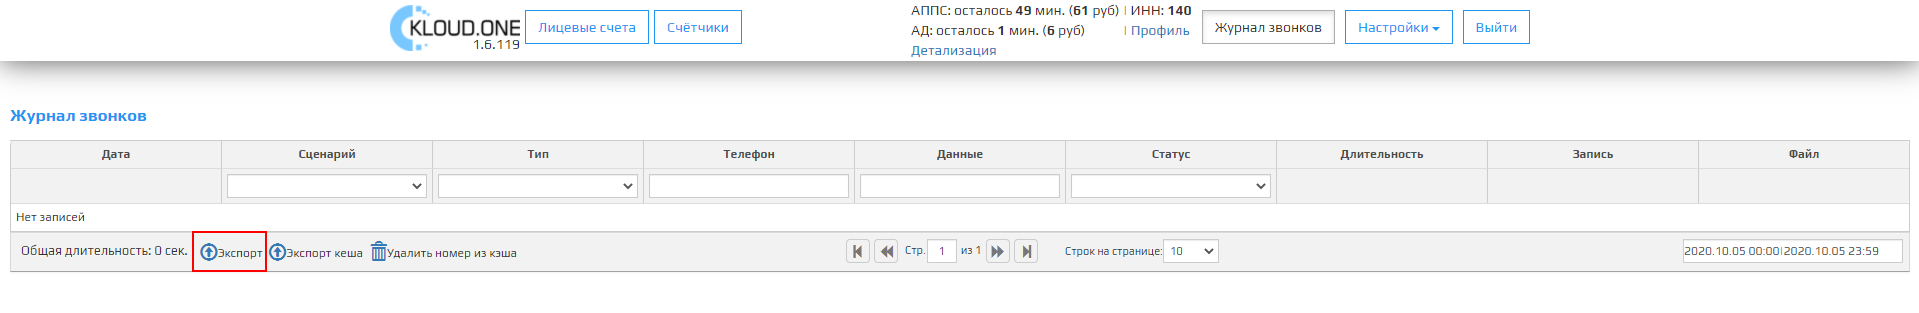
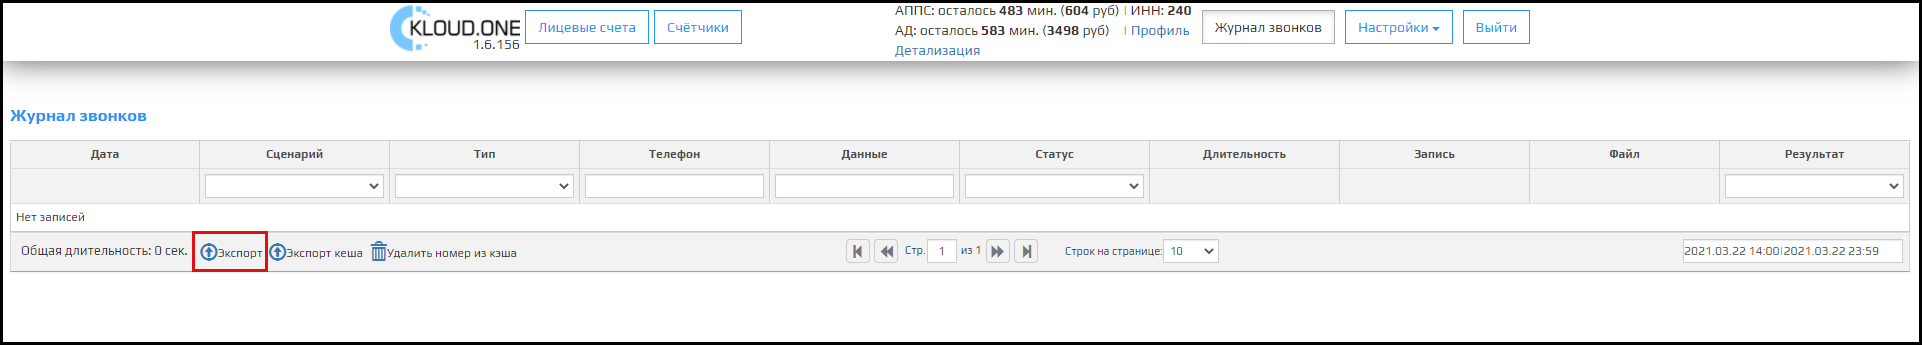
desc

diff --git a/content/ver.1.6.134/3-work_with_product/call_log.md b/content/ver.1.6.134/3-work_with_product/call_log.md
@@ -63,23 +63,20 @@ sort: "07"
 
 ### Статус
 
-В поле указывается один из статусов звонков (Все,отвечен,отменен,ошибка, запуск).
+В поле указывается один из статусов звонков (Все,отвечен,отменен,ошибка, запуск) и дополнительная информация().
 
 ![Картинка](./images/call_log_field_status.png "Поле Статус")
 
 Статус **Отвечен** присваивается, когда абонент поднял трубку.
 
-Статус **Отменен** присваивается  в следующих ситуациях:  
-
-1. Когда баланс модулей АД и АППС равен 0.
-2. Когда мы не могли дозвониться до абонента (Абонент не взял трубку).
+Статус **Отменен** и допонительная информация присваивается в следующих ситуациях:  
+1. "Отменен: абонент не взял трубку"- когда звонок состоялся, но абонент не взял трубку или сбросил её.
+2. "Отменен: нулевой баланс сервиса"- когда по запущенному сервису нулевой баланс.
 
 Статус **Ошибка** присваивается  в следующих ситуациях:
-
-1. Номер телефона на который звонили не существует или номер записан в неправильном формате.
-2. Номер телефона на который звонили временно недоступен (Нет связи, включен режим **В самолете**, уже разговаривает с кем-то).
-
-Статус **Запуск (ожидание ответа на звонок)** - присваивается, когда человек уже поднял трубку от нашего сервиса.
+1. "Ошибка: временно не доступен" - когда абонент, недоступен ,введенный номер не существует или записан в неправильном формате
+2. "Ошибка: абонент занят" - абонент уже разговаривает с кем-то.
+3. "Ошибка: не смогли дозвониться до абонента" - абонент не поднял трубку от нашего сервиса.
 
 🛈 При выборе одного из пунктов в выпадающем списке, при экспорте данные будут содержать только выбранный пункт из выпадающего списка.  
 🛈 При выборе двух или трех одновременно пунктов из выпадающих списков, при экспорте данные будут содержать все три выбранных пунктов из выпадающих списков.
@@ -109,6 +106,30 @@ sort: "07"
 В этом поле находится кнопка **Скачать** , при нажатии на эту кнопку скачается запись звонка в формате *wav.
 
 ![Картинка](./images/call_log_field_file.png "Кнопка Скачать")
+
+### Результат
+
+В этом поле отображается резултат выполнения сервисов АД и АППС.
+
+Для АППС:
+- Успешно - когда абонент подал показания минимум по одному счетчику.
+- Неупешно - когда:  
+1. Звонок не состоялся.
+2. Абонент не поднял трубку.
+3. Абонент поднял трубку, но ничего не произносит.
+4. Лицевой счет, который произносит абонент, удален или не существует.
+5. Счетчик, на который подают показания, удален или не существует.
+6. Абонент подает показания меньше текущих более 2 раз.
+7. Абонент игнорирует просьбу ввода показаний.
+
+Для АД:
+- Успешно - когда робот полностью проговорил информацию о задолженности для абонента и завершил звонок.
+- Неупешно - когда:
+1. Звонок не состолся.
+2. Абонент не поднял трубку.
+3. Абонент поднял трубку, но сбросил звонок, до момента, когда робот закончит проговаривать информацию о хадолженности.
+
+![Картинка](./images/call_log_field_result.png "Поле Результат")
 
 ### Экспорт
 

diff --git a/content/ver.1.6.134/3-work_with_product/structure_interface.md b/content/ver.1.6.134/3-work_with_product/structure_interface.md
@@ -1,7 +1,7 @@
 ---
 slug: "/post13"
 title: "О составе интерфейса"
-sort: "01"
+sort: "00"
 ---
 
 Интерфейс платформы представляет собой **Личный кабинет** пользователя, в который входит  **Панель навигации** и таблица с данными

diff --git a/content/ver.1.6.134/4-instructions/how_to_view_calllog.md b/content/ver.1.6.134/4-instructions/how_to_view_calllog.md
@@ -1,5 +1,6 @@
 ---
 slug: "/post24"
+title: "Просмотр Журнала звонков"
 sort: "11"
 ---
 
